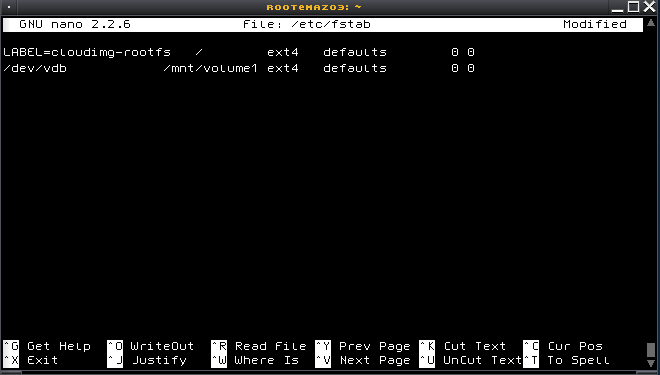
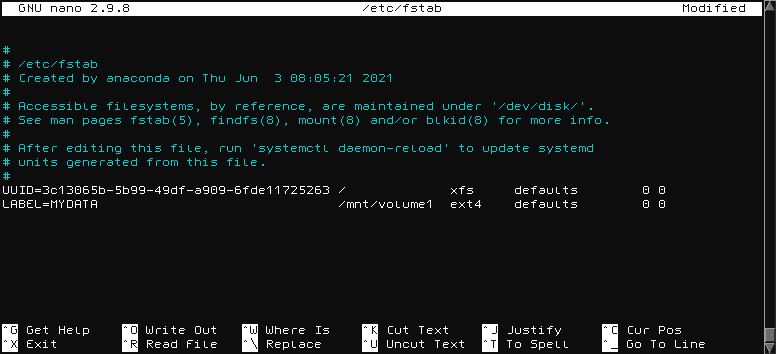
better explain the fstab file to remount volumes on reboot

diff --git a/source/MicroPrimers.rst b/source/MicroPrimers.rst
@@ -634,21 +634,23 @@ Forget to do so might cause the following:
    volume) thinking you are writing on your volume with, say, 1 TB of
    space;
 
-2. The volume is not mounted there so you are writing instead on the
+#. The volume is not mounted there so you are writing instead on the
    same space where your operating system lives;
 
-3. You eventually fill up your filesystem and your VM crash/starts
+#. You eventually fill up your filesystem and your VM crash/starts
    malfunctioning;
 
-4. Your VM might not boot anymore and you have to call for help.
+#. Your VM might not boot anymore and you have to call for help.
 
 We will now create an entry on the */etc/fstab* file to remount the
 volume upon reboot.
 
 .. WARNING ::
-    A big warning! DO NOT edit the /etc/fstab file by transferring it on
-    a windows machine and then back to your VM. Bad things will
-    happen...
+    A big warning! The /etc/fstab file is essential for any linux system.
+    Scrambling its contents with incorrect mount options, syntax errors
+    and the like can prevent your VM from booting. **Always proceed with
+    caution** and **try everything from the command line before writing**
+    something inside the file and reboot the VM.
 
 The /mnt directory is normally used as the 'mount point' for various
 devices. Normally you would create a directory under /mnt for each
@@ -666,14 +668,34 @@ All the operations will be performed as the supersuser.
        root@maz03:~#
                 
 
-2. Create the 'mount point'
+#. Create the 'mount point'
 
    ::
 
        root@maz03:~# mkdir -p /mnt/volume1
                 
 
-3. Edit the /etc/fstab file: we will use the 'nano' editor for that:
+#. It is strongly advisable you create a label on the volume as showed in :ref:`Using (attaching) a Volume<createlabel>`
+
+   ::
+
+       root@maz03:~# e2label /dev/vdb MYDATA
+
+
+#. Try it! Especially if you plan to put some options (e.g. -o user,... ). Whatever the command...
+
+   ::
+
+       root@maz03:~# mount LABEL=MYDATA /mnt/volume1
+
+   ...should give no errors.
+
+   ::
+
+       root@maz03:~# mount | grep volume1
+       /dev/vdb on /mnt/volume1 type ext4 (rw,relatime)
+
+#. If everything is ok you can safely edit the /etc/fstab file. We will use the 'nano' editor for that:
 
    ::
 
@@ -685,25 +707,45 @@ All the operations will be performed as the supersuser.
    .. image:: ./images/edit_fstab.png
       :align: center
 
-4. Add a line telling you want to mount the device /dev/vdb under
-   /mnt/volume1 (you have already created an ext4 filesystem on it).
+
+#. Add a line telling you want to mount the device with label ``MYDATA`` under
+   ``/mnt/volume1`` (we suppose the volume has an ext4 filesystem and you didn't add any option.
 
    This should be the content of your file:
 
    .. image:: ./images/add_vol1_to_fstab.png
       :align: center
 
-5. Write your file to disk by pressing **CTRL+o** ... ... and confirming
+
+#. Write your file to disk by pressing ``CTRL+o`` ... ... and confirming
    with enter.
 
    .. image:: ./images/write_fstab.png
       :align: center
 
-6. Exit the editor by pressing ``CTRL+x``. Go back to your normal user
-   by issuing the 'exit' command or by pressing CTRL+d
+
+#. Exit the editor by pressing ``CTRL+x``. 
+
+#. Double check the file is valid. **Please don't skip this passage.**
+
+   1. If you previously tried to mount the volume just unmount it first (if you didn't just skip this step):
+
+     ::
+
+        root@maz03:~# umount /mnt/volume1
+
+   2. Try to mount everything you put in the /etc/fstab:
+
+     ::
+
+        root@maz03:~# mount -av
+        /                        : ignored
+        /mnt/volume1             : successfully mounted
+
+#. Go back to your normal user by issuing the 'exit' command or by pressing ``CTRL+d``
 
 Now your volume will appear under the '/mnt/volume1' directory everytime
-your VM boots up. You can also mount the volume just issuing
+your VM boots up. You can also mount the volume anytime just issuing
 
 ::
 
